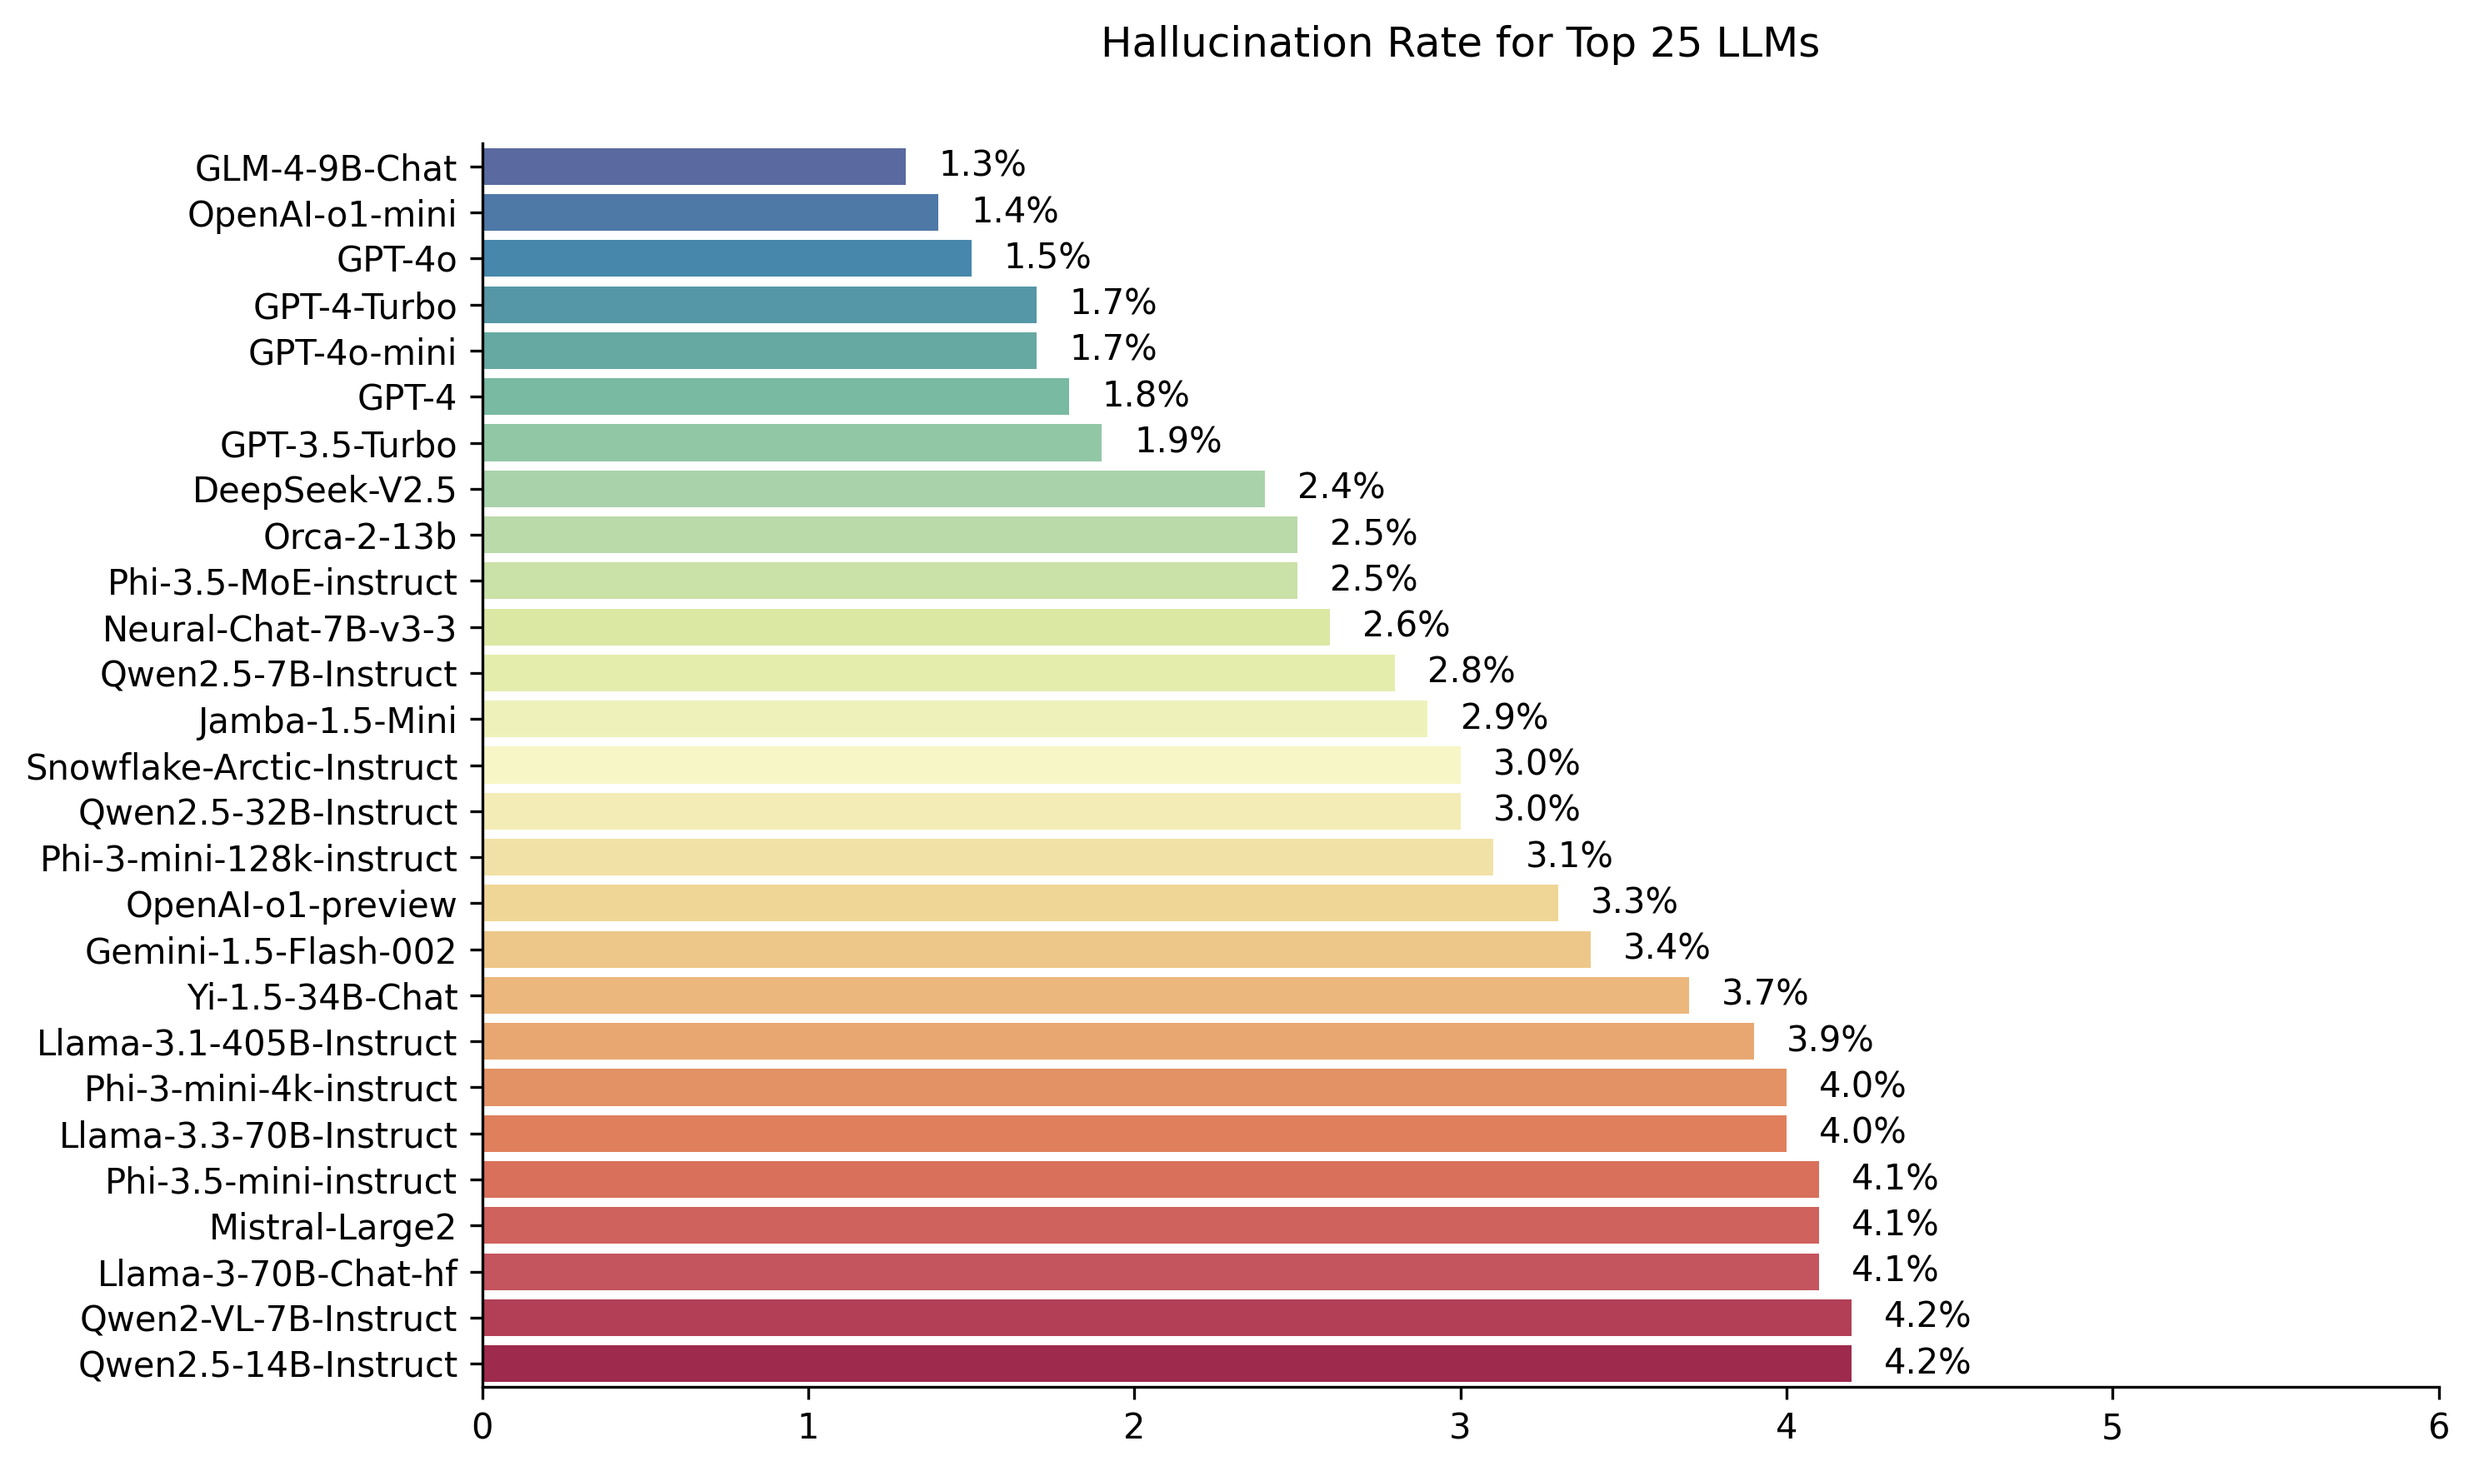
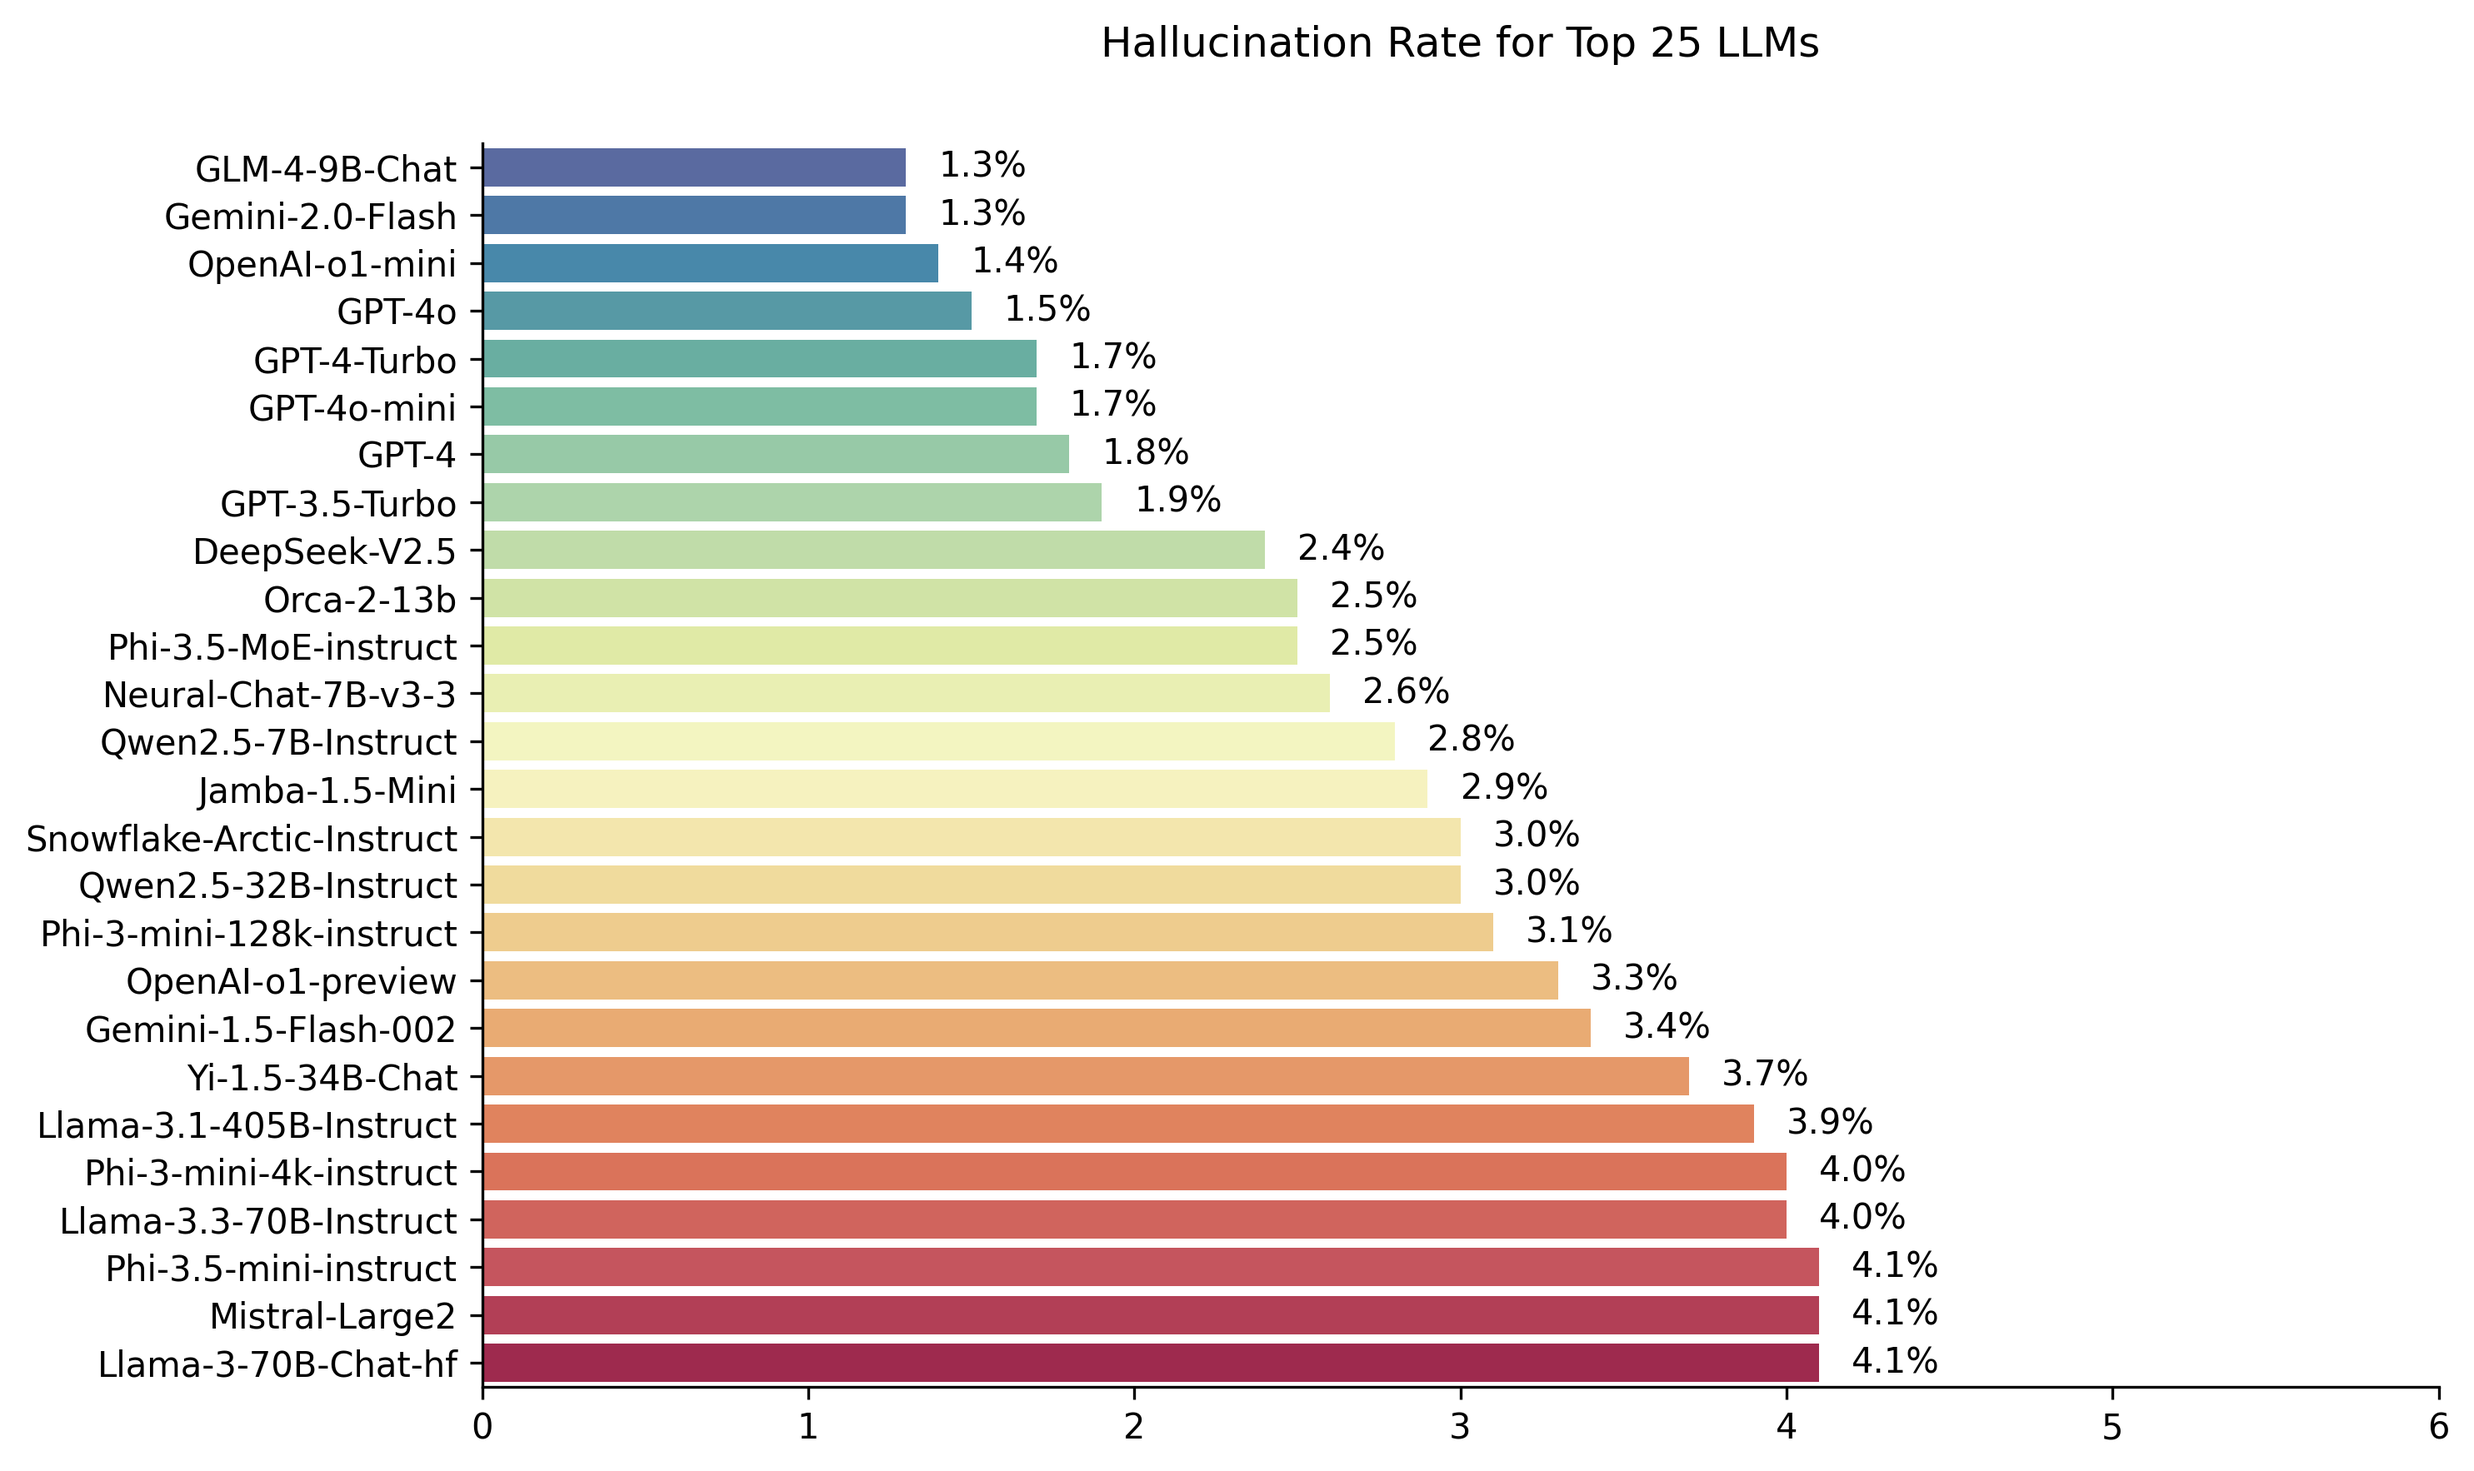
update results for gemini-2.0-flash

Changed region(s): [[0.0, 0.1246, 0.8057, 0.9343]]

diff --git a/README.md b/README.md
@@ -26,6 +26,7 @@ Last updated on December 8th, 2024
 |Model|Hallucination Rate|Factual Consistency Rate|Answer Rate|Average Summary Length (Words)|
 |----|----:|----:|----:|----:|
 |Zhipu AI GLM-4-9B-Chat|1.3 %|98.7 %|100.0 %|58.1|
+|Google Gemini-2.0-Flash|1.3 %|98.7 %|99.9 %|60.0|
 |OpenAI-o1-mini|1.4 %|98.6 %|100.0 %|78.3|
 |GPT-4o|1.5 %|98.5 %|100.0 %|77.8|
 |GPT-4o-mini|1.7 %|98.3 %|100.0 %|76.3|
@@ -185,6 +186,7 @@ Details on each model can be found on their [website](https://docs.anthropic.com
 - **Gemini 1.5 Flash**: Accessed using model `gemini-1.5-flash-001` on Vertex AI. 
 - **Gemini 1.5 Pro 002**: Accessed using model `gemini-1.5-pro-002` on Vertex AI.
 - **Gemini 1.5 Flase 002**: Accessed using model `gemini-1.5-flash-002` on Vertex AI. 
+- **Gemini 2.0 Flash**: Accessed using model `gemini-2.0-flash-exp` on Vertex AI. 
 
 For an in-depth understanding of each model's version and lifecycle, especially those offered by Google, please refer to [Model Versions and Lifecycles](https://cloud.google.com/vertex-ai/docs/generative-ai/learn/model-versioning) on Vertex AI.
 
